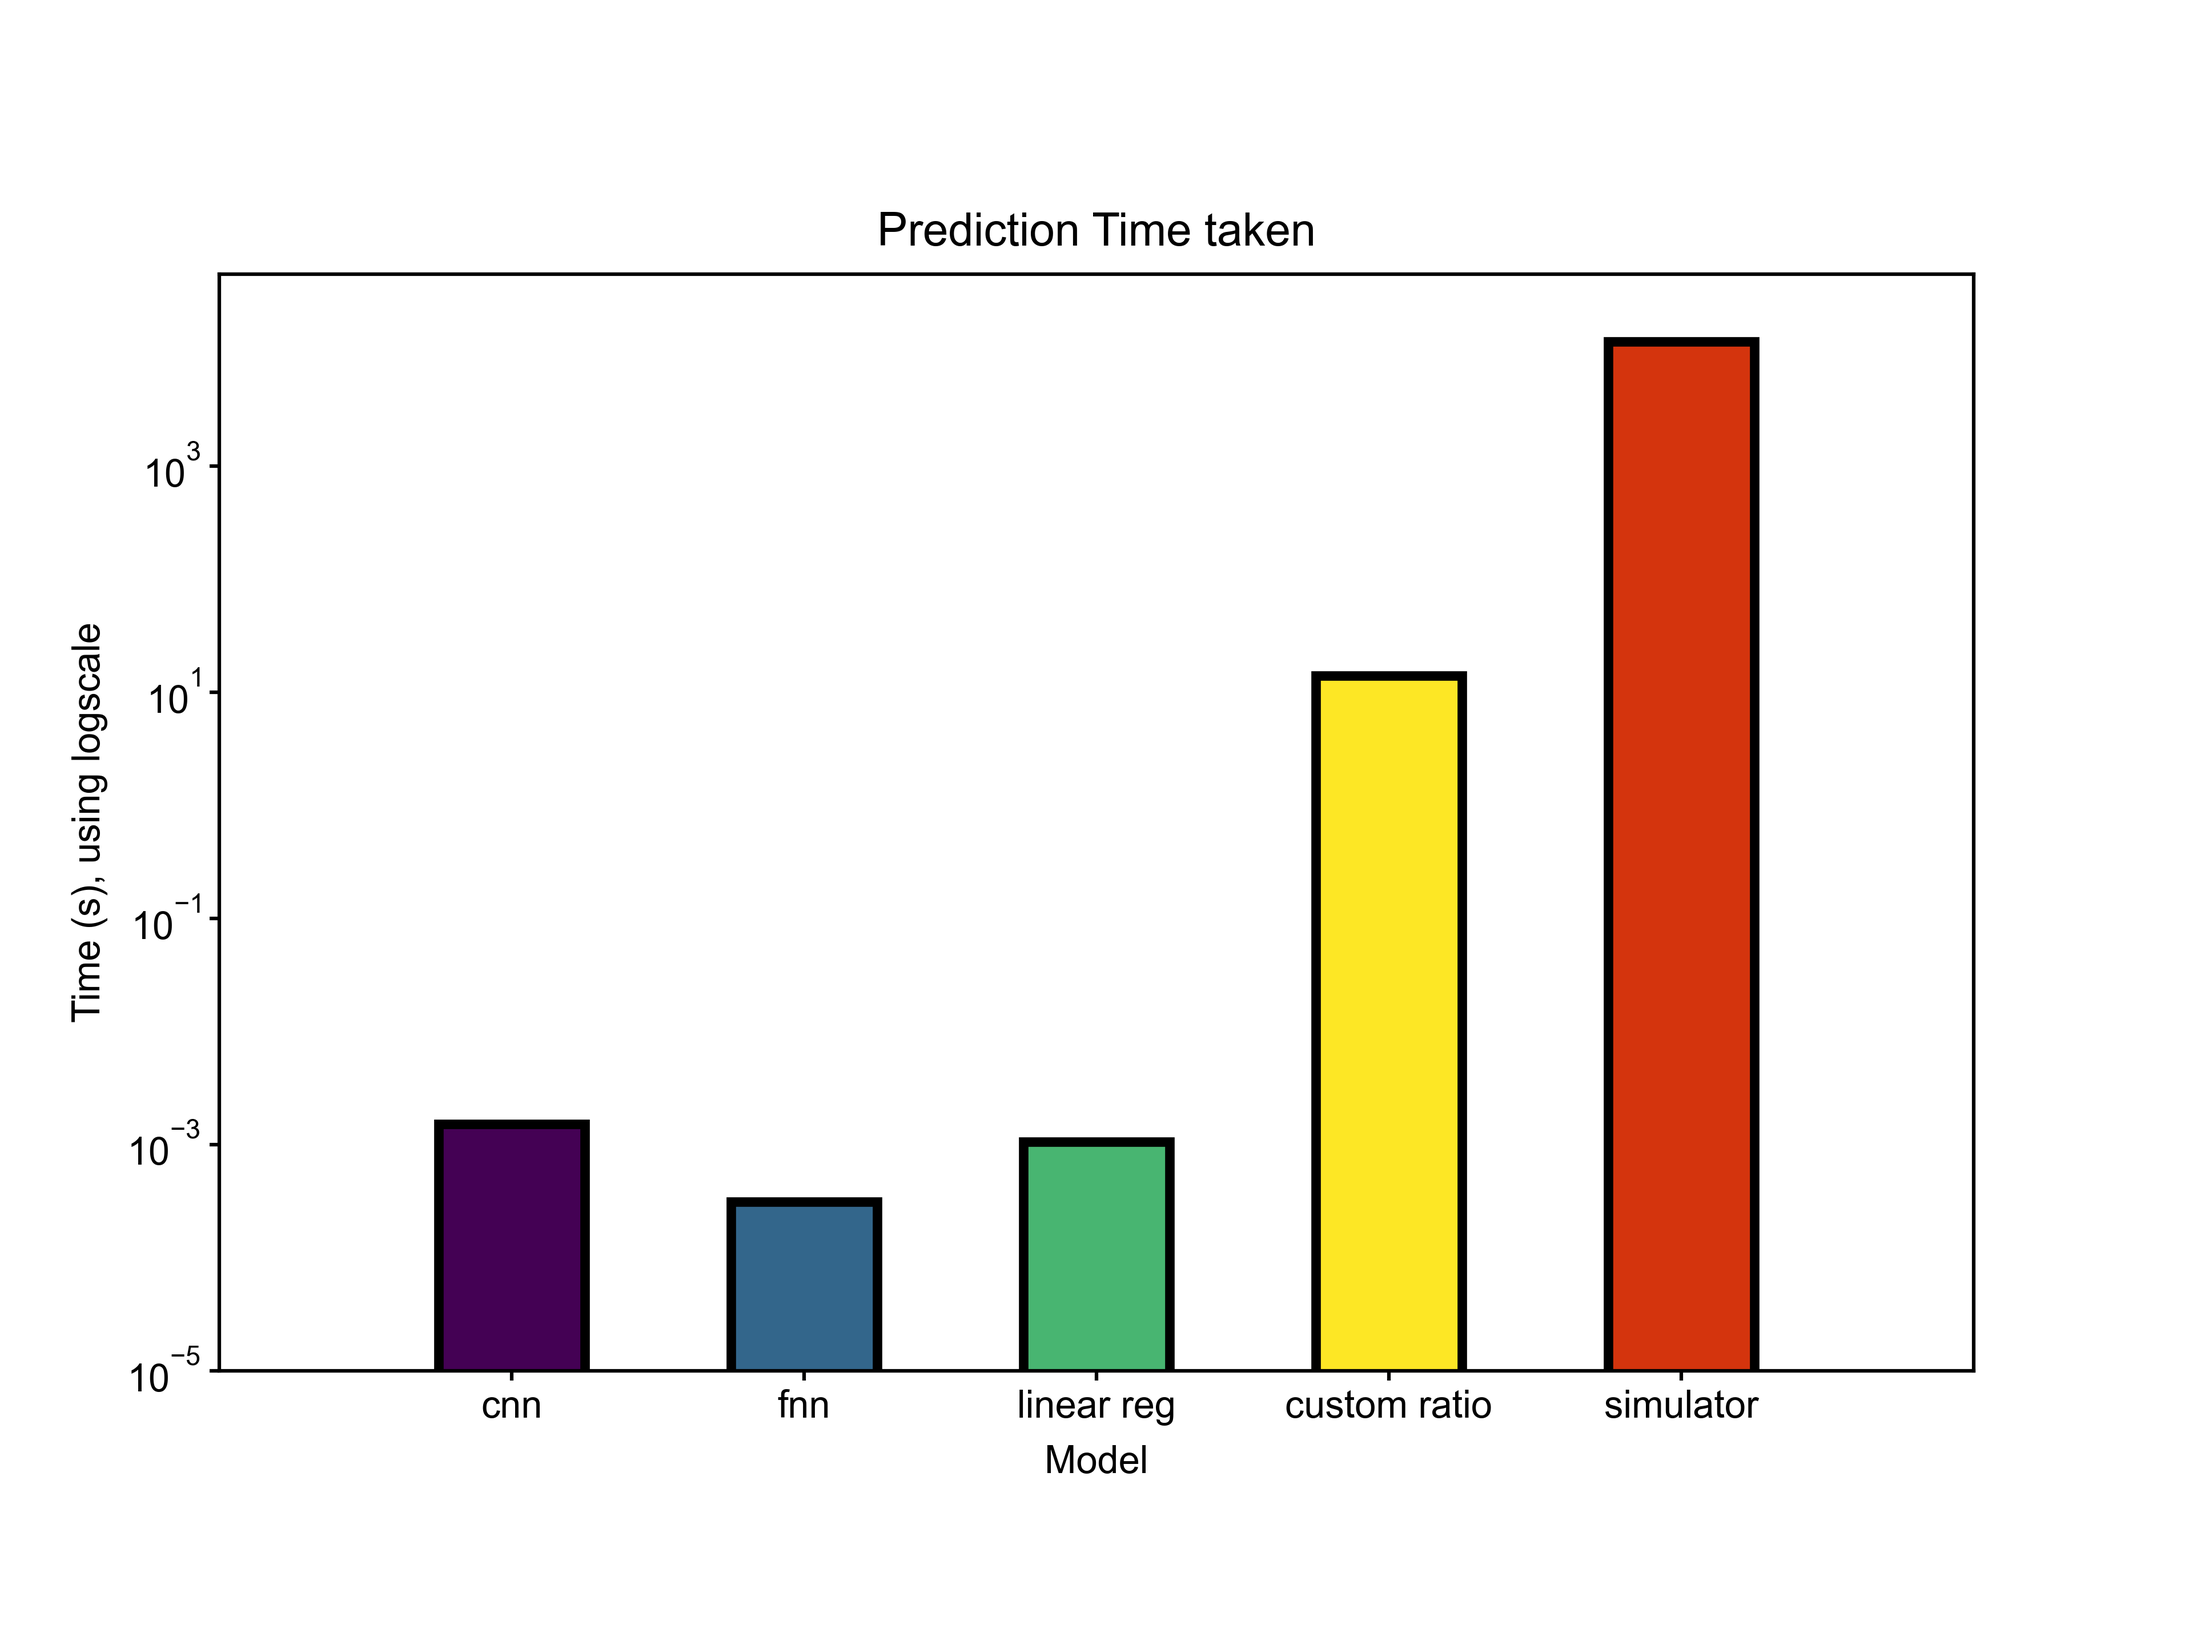
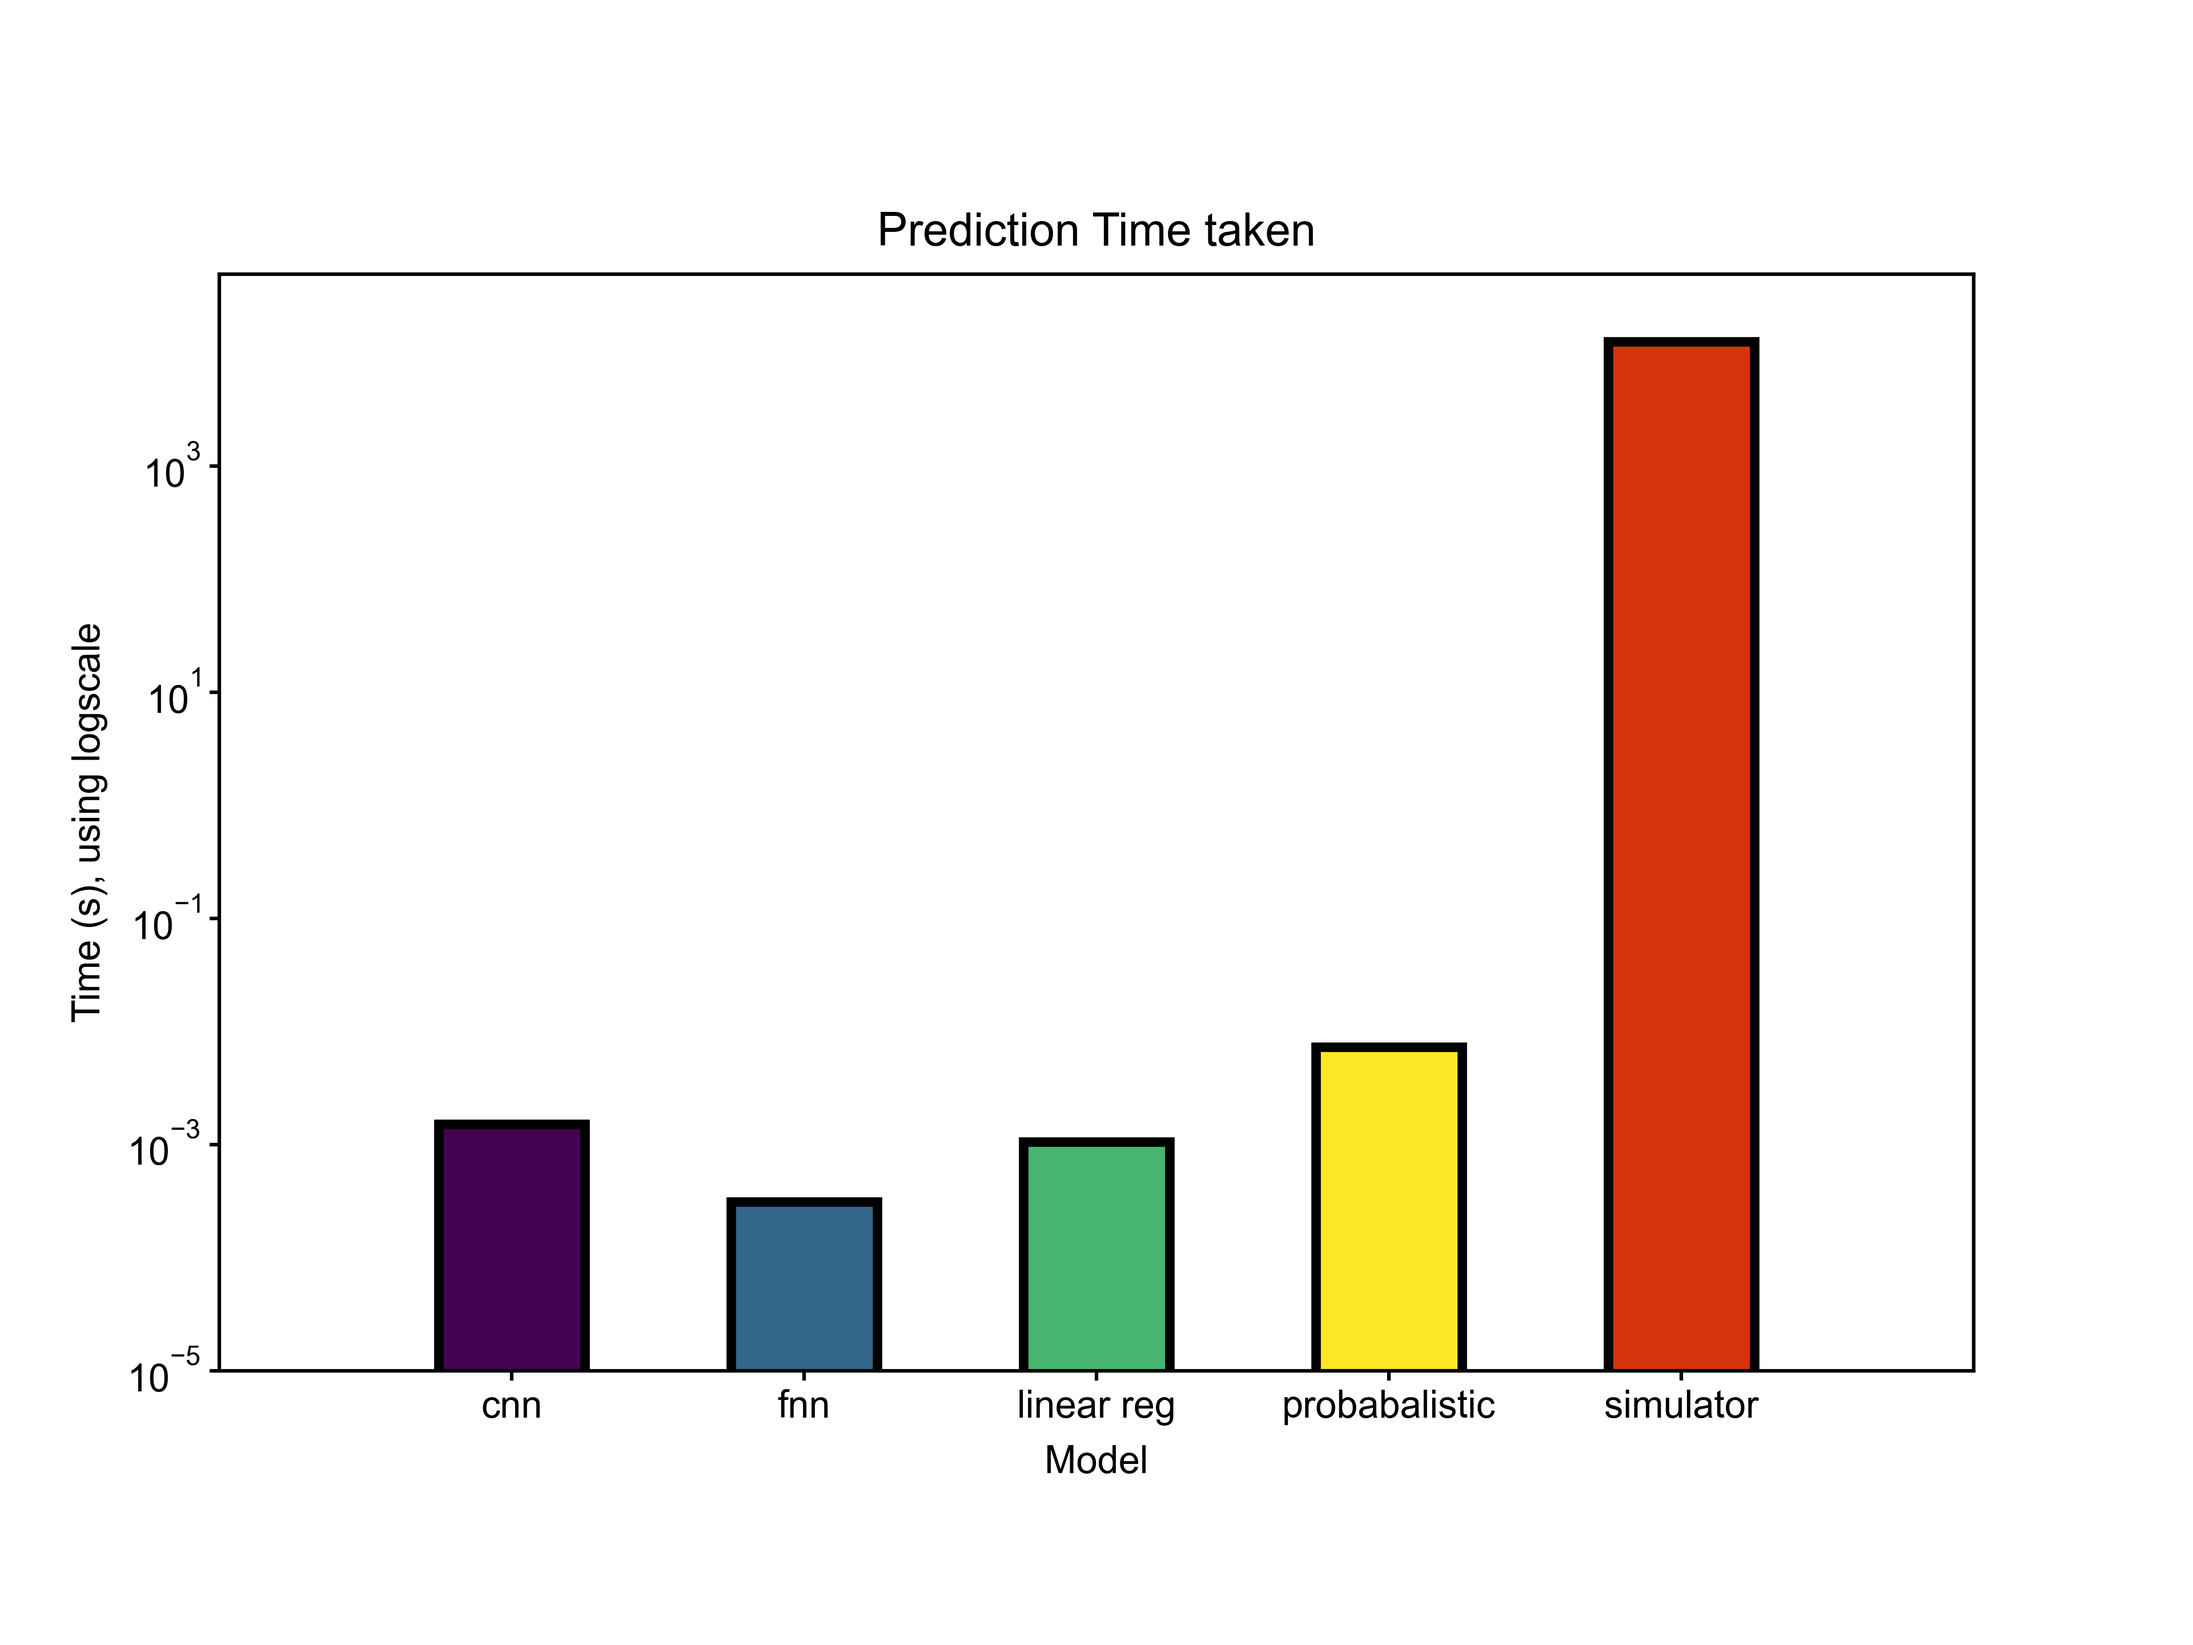
fixed  vis stuff

Changed region(s): [[0.5938, 0.4062, 0.6875, 0.6562], [0.5938, 0.8438, 0.6875, 0.875]]

diff --git a/vis/vis.py b/vis/vis.py
@@ -3,7 +3,7 @@ import matplotlib.patches as mplpatches
 from typing import Optional
 import numpy as np
  # argument parser
- # thanks to Prof. Chris Vollmers for a fantastic stylesheet from BME163
+ # thanks to Prof. Chris Vollmers for a fantastic stylesheet from BME163    
 plt.style.use('BME163') # use bme163 style
 
 
@@ -12,7 +12,7 @@ data = {
     "fnn" : 0.0591,
     
     "linear reg" : 0.0656,
-    "custom ratio": 0.0727
+    "probabalistic": 0.0727
 }
 
 
@@ -27,7 +27,7 @@ y_ticks = np.arange(0, 0.11, 0.01)
 panel = plt.axes(panelData)
 panel.set_xlim(0, 5)
 panel.set_ylim(0, 0.1)
-panel.set_title("Model Evaluation")
+panel.set_title("Model Evaluation (MSE)")
 panel.set_yticks(np.arange(0,0.11,0.01), 
                  [(y_ticks[i] if i % 2 == 0 else "") for i in range(len(y_ticks))])
 panel.set_xticks(np.arange(1,5,1), data.keys())

diff --git a/vis/vis2.py b/vis/vis2.py
@@ -11,7 +11,7 @@ data = {
     "fnn" : 3.13e-4,
     
     "linear reg" : 1.06e-3,
-    "custom ratio": 14,
+    "probabalistic": 7.3e-3,
     "simulator" : 1.27e4
 }
 
